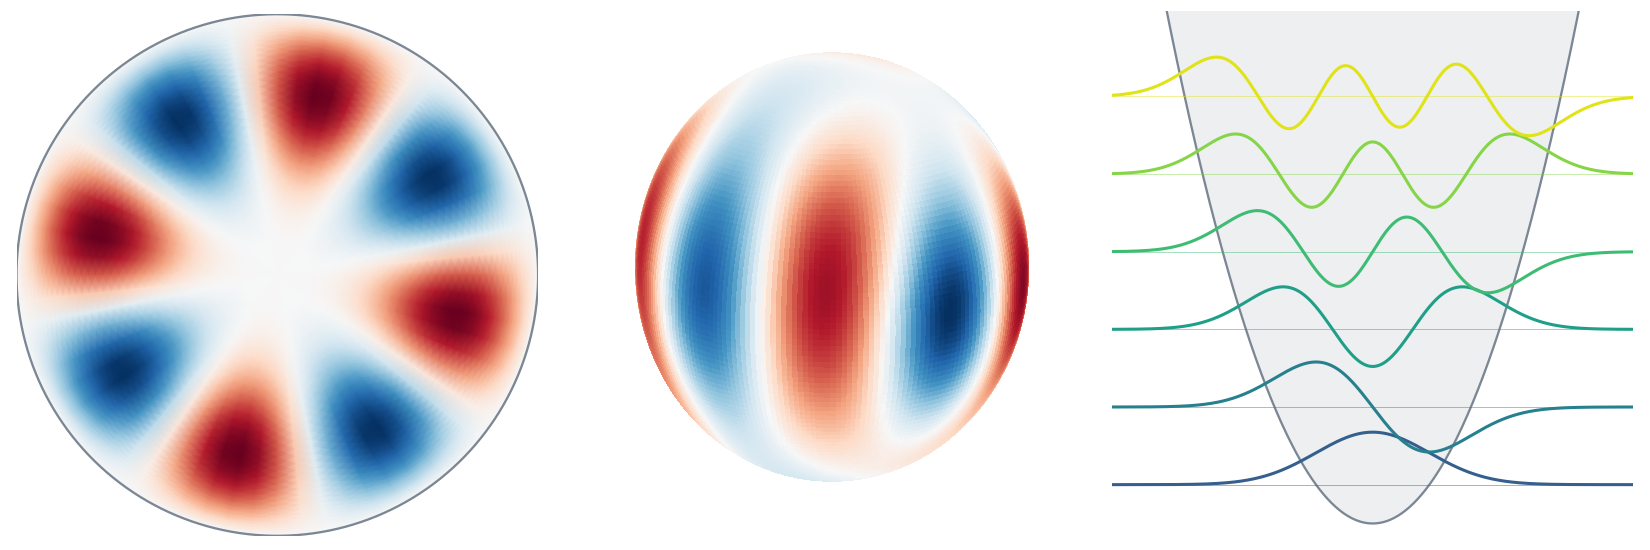
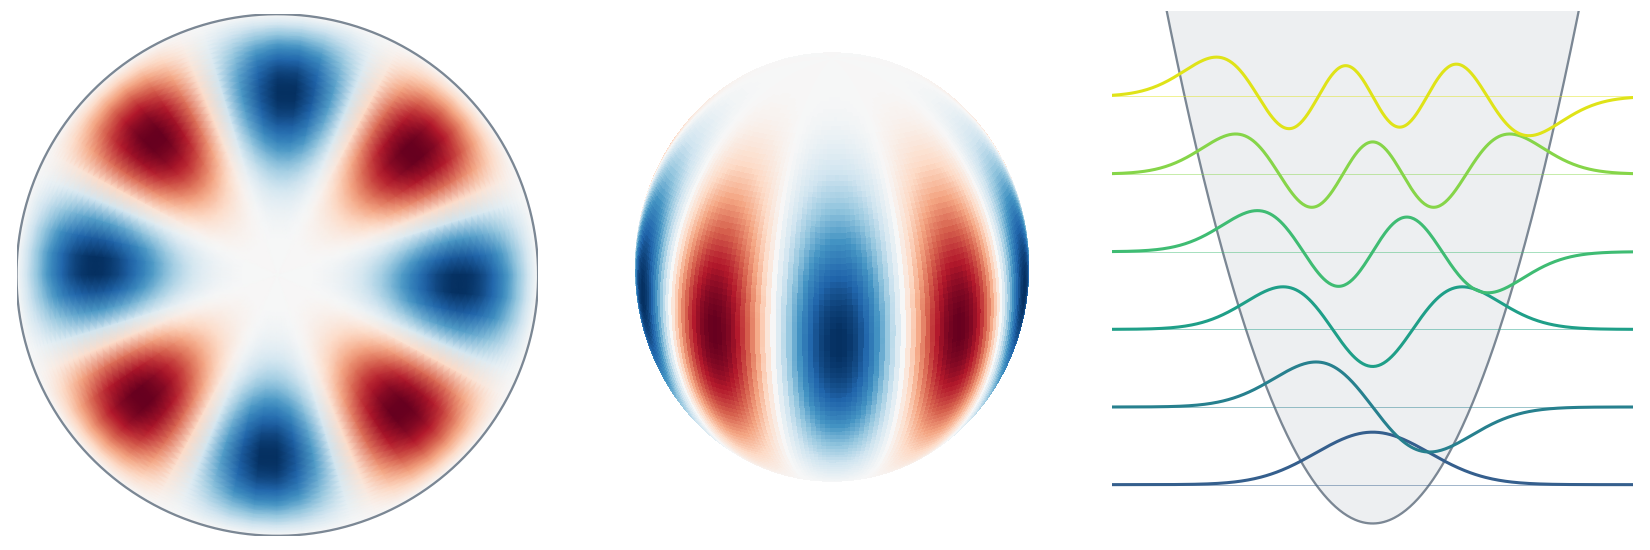
Return real eigenvectors for degenerate eigenvalues; release 0.6.1
Operator.eig now returns a real orthonormal basis for (numerically)
degenerate real eigenvalues of real operators, also on the sparse path.
Genuinely complex eigenpairs are unchanged.

The title image script picks the sectoral l = 5 mode from its
eigenspace, so the picture no longer depends on the eigensolver's choice
of basis.

diff --git a/tests/test_operators.py b/tests/test_operators.py
@@ -12,10 +12,15 @@ from numgrids import (
     PolarGrid,
     Robin,
     SphericalGrid,
+    SphericalSurfaceGrid,
     chebyshev,
+    colatitude,
     equidistant,
     periodic,
+    radial,
 )
+from numgrids.boundary import resolve_bcs
+from numgrids.operators import _real_eigenbasis
 
 
 @pytest.fixture
@@ -220,6 +225,89 @@ class TestEig:
         vals, vecs = L.eig(k=1, bcs={"r_low": 0, "r_high": 0, "theta_low": Neumann(0),
                                      "theta_high": Neumann(0)})
         assert vals[0] == pytest.approx(np.pi ** 2, rel=1e-6)
+
+
+def _assert_eigenpairs(L, vals, vecs, bcs, atol=1e-7):
+    """Check L v = lambda v away from the boundary points."""
+    interior = np.ones(L.grid.size, dtype=bool)
+    for bc in resolve_bcs(L.grid, bcs):
+        interior[bc.face.flat_indices] = False
+    for lam, v in zip(vals, vecs):
+        residual = L.matrix @ v.ravel() - lam * v.ravel()
+        assert np.max(np.abs(residual[interior])) <= atol * max(1.0, abs(lam))
+
+
+class TestRealEigenvectors:
+    """Degenerate eigenvalues of real operators come with real eigenvectors."""
+
+    @pytest.mark.parametrize("dense_threshold", [2000, 10])
+    def test_square(self, dense_threshold):
+        grid = Grid(chebyshev(20, 0, 1), chebyshev(20, 0, 1))
+        L = -grid.laplacian_operator()
+        vals, vecs = L.eig(k=4, bcs=0, dense_threshold=dense_threshold)
+        assert np.isrealobj(vals) and np.isrealobj(vecs)
+        npt.assert_allclose(vals, np.pi ** 2 * np.array([2, 5, 5, 8]), rtol=1e-6)
+        _assert_eigenpairs(L, vals, vecs, 0)
+        # The degenerate pair is an orthonormal basis of its eigenspace.
+        pair = vecs[1:3].reshape(2, -1)
+        npt.assert_allclose(pair @ pair.T, np.eye(2), atol=1e-10)
+
+    @pytest.mark.parametrize("dense_threshold", [2000, 10])
+    def test_drum(self, dense_threshold):
+        L = -PolarGrid(radial(20, 1.0), periodic(32)).laplacian_operator()
+        vals, vecs = L.eig(k=6, bcs=0, dense_threshold=dense_threshold)
+        assert np.isrealobj(vals) and np.isrealobj(vecs)
+        npt.assert_allclose(np.sqrt(vals), [2.404825557695773, 3.831705970207512, 3.831705970207512,
+                                            5.135622301840683, 5.135622301840683, 5.520078110286311],
+                            rtol=1e-8)
+        _assert_eigenpairs(L, vals, vecs, 0)
+
+    def test_sphere_surface(self):
+        L = -SphericalSurfaceGrid(colatitude(16), periodic(32)).laplacian_operator()
+        vals, vecs = L.eig(k=9, dense_threshold=10)
+        assert np.isrealobj(vals) and np.isrealobj(vecs)
+        npt.assert_allclose(vals, [0, 2, 2, 2, 6, 6, 6, 6, 6], atol=1e-8)
+        _assert_eigenpairs(L, vals, vecs, None)
+        block = vecs[4:9].reshape(5, -1)
+        npt.assert_allclose(block @ block.T, np.eye(5), atol=1e-8)
+
+    def test_neumann_generalized_problem(self):
+        grid = Grid(chebyshev(16, 0, np.pi), chebyshev(16, 0, np.pi))
+        L = -grid.laplacian_operator()
+        vals, vecs = L.eig(k=3, bcs=Neumann(0))
+        assert np.isrealobj(vals) and np.isrealobj(vecs)
+        npt.assert_allclose(vals, [0, 1, 1], atol=1e-8)
+
+    def test_complex_eigenvalues_stay_complex(self):
+        # d/dx on a periodic axis has eigenvalues i m with eigenvectors exp(i m x).
+        grid = Grid(periodic(15, 0, 2 * np.pi))     # odd: no Nyquist mode
+        D = grid.diff_operator(1)
+        vals, vecs = D.eig(k=3)
+        assert np.iscomplexobj(vals) and np.iscomplexobj(vecs)
+        npt.assert_allclose(np.sort(vals.imag), [-1, 0, 1], atol=1e-10)
+        _assert_eigenpairs(D, vals, vecs, None)
+
+    def test_conjugate_pair_is_made_real(self):
+        rng = np.random.default_rng(0)
+        a, b = rng.standard_normal((2, 10))
+        v = (a + 1j * b) / np.linalg.norm(a + 1j * b)
+        vals = np.array([3.0 + 1e-12j, 3.0 - 1e-12j, 5.0])
+        vecs = np.column_stack([v, v.conj(), rng.standard_normal(10)])
+        new_vals, new_vecs = _real_eigenbasis(vals, vecs)
+        npt.assert_array_equal(new_vals.imag, 0)
+        assert not np.any(new_vecs.imag)
+        # Same span as the real and imaginary parts of the input pair:
+        basis = new_vecs[:, :2].real
+        npt.assert_allclose(basis @ (basis.T @ np.column_stack([a, b])), np.column_stack([a, b]),
+                            atol=1e-12)
+        npt.assert_allclose(new_vecs[:, 2], vecs[:, 2])
+
+    def test_genuinely_complex_pair_is_unchanged(self):
+        vals = np.array([1 + 2j, 1 - 2j])
+        vecs = np.array([[1, 1], [1j, -1j]]) / np.sqrt(2)
+        new_vals, new_vecs = _real_eigenbasis(vals, vecs)
+        npt.assert_array_equal(new_vals, vals)
+        npt.assert_array_equal(new_vecs, vecs)
 
 
 def test_remaining_operator_dunders():

diff --git a/numgrids/operators.py b/numgrids/operators.py
@@ -319,7 +319,11 @@ class Operator:
         eigenvectors : NDArray
             Shape ``(k, *grid.shape)``; ``eigenvectors[i]`` belongs to
             ``eigenvalues[i]``.  Each eigenvector has unit Euclidean norm
-            (as a flat vector) and its largest component is positive.
+            (as a flat vector) and its largest component is positive.  For a
+            real operator, eigenvectors of real eigenvalues are real, also
+            for degenerate eigenvalues (e.g. symmetry-related modes on a
+            disk or sphere): a degenerate eigenspace is returned as a real
+            orthonormal basis.
         """
         from numgrids.boundary import DirichletBC, resolve_bcs
 
@@ -401,6 +405,8 @@ class Operator:
 
         order = self._sort_eigenvalues(vals, which, sigma)[:k]
         vals, vecs = vals[order], vecs[:, order]
+        if not np.iscomplexobj(A):
+            vals, vecs = _real_eigenbasis(vals, vecs)
 
         full = np.zeros((size, len(vals)), dtype=vecs.dtype)
         full[keep, :] = vecs
@@ -427,6 +433,43 @@ class Operator:
         if which == "SR":
             return np.argsort(vals.real)
         return np.argsort(-vals.real)
+
+
+def _real_eigenbasis(vals: NDArray, vecs: NDArray, rtol: float = 1e-8) -> tuple[NDArray, NDArray]:
+    r"""Replace complex eigenvectors of a real problem by real ones.
+
+    For a real matrix, the eigenspace of a real eigenvalue has a real basis,
+    but eigensolvers may return complex vectors for it.  This happens when
+    the eigenvalue is degenerate: any complex combination of the basis is an
+    eigenvector, and a nonsymmetric discretization may even split the
+    eigenvalue into a pair :math:`\lambda \pm i\epsilon` with complex
+    conjugate eigenvectors.  For each cluster of (numerically) equal, real
+    eigenvalues, the real and imaginary parts of its eigenvectors span the
+    real eigenspace; an orthonormal basis of that span replaces the cluster's
+    eigenvectors (also if they were real but not orthogonal).  Genuinely
+    complex eigenvalues are left unchanged.
+    """
+    vals = np.array(vals, dtype=complex)
+    vecs = np.array(vecs, dtype=complex)
+    scale = rtol * np.maximum(1.0, np.abs(vals))
+    real_valued = np.abs(vals.imag) <= scale
+    unassigned = set(np.flatnonzero(real_valued))
+    while unassigned:
+        i = min(unassigned)
+        cluster = [j for j in sorted(unassigned)
+                   if abs(vals[j].real - vals[i].real) <= max(scale[i], scale[j])]
+        unassigned.difference_update(cluster)
+        V = vecs[:, cluster]
+        m = len(cluster)
+        vals[cluster] = vals[cluster].real
+        if m == 1 and not np.any(V.imag):
+            continue
+        U, s, _ = np.linalg.svd(np.hstack([V.real, V.imag]), full_matrices=False)
+        if s[m - 1] <= 1e-6 * s[0]:
+            # The vectors do not span an m-dimensional space; leave them alone.
+            continue
+        vecs[:, cluster] = U[:, :m]
+    return vals, vecs
 
 
 def _count_zero_rows(M) -> int:

diff --git a/docs/assets/scripts/make_hero.py b/docs/assets/scripts/make_hero.py
@@ -22,7 +22,7 @@ disk = PolarGrid(radial(40, 1.0), periodic(64))
 vals, modes = (-disk.laplacian_operator()).eig(k=12, bcs=0)
 ax = fig.add_subplot(1, 3, 1)
 mode = modes[10] / np.abs(modes[10]).max()
-disk.plot(np.real(mode), ax=ax, cmap="RdBu_r", colorbar=False, vmin=-1, vmax=1)
+disk.plot(mode, ax=ax, cmap="RdBu_r", colorbar=False, vmin=-1, vmax=1)
 rim = np.linspace(0, 2 * np.pi, 400)
 ax.plot(np.cos(rim), np.sin(rim), color="#7b8794", lw=1.5)
 ax.set_axis_off()
@@ -30,15 +30,17 @@ ax.set_axis_off()
 # 2) An eigenfunction of the Laplacian on the full sphere (through the poles)
 sphere = SphericalSurfaceGrid(colatitude(40), periodic(80))
 svals, smodes = (-sphere.laplacian_operator()).eig(k=36)
-f = smodes[30]                                  # an l = 5 eigenfunction
-# The operator is real, so the real (or imaginary) part is an eigenfunction, too.
-f = np.real(f) if np.linalg.norm(np.real(f)) >= np.linalg.norm(np.imag(f)) else np.imag(f)
+# The l = 5 eigenvalue is 11-fold degenerate; pick the sectoral mode Y_5^5 from its eigenspace.
+space = smodes[np.isclose(svals, 30.0)].reshape(-1, sphere.size)
+TH, PH = sphere.meshed_coords
+target = (np.sin(TH) ** 5 * np.cos(5 * PH)).ravel()
+f = (np.linalg.lstsq(space.T, target, rcond=None)[0] @ space).reshape(sphere.shape)
 # Spectral interpolation onto a fine mesh (including the poles) for a smooth picture
 theta = np.linspace(0, np.pi, 121)
 phi = np.linspace(0, 2 * np.pi, 241)
 T, P = np.meshgrid(theta, phi, indexing="ij")
 pts = np.column_stack([T.ravel(), np.mod(P.ravel(), 2 * np.pi)])
-vals_s = np.real(sphere.interpolate(f, pts, method="spectral")).reshape(T.shape)
+vals_s = sphere.interpolate(f, pts, method="spectral").reshape(T.shape)
 vals_s /= np.abs(vals_s).max()
 ax = fig.add_subplot(1, 3, 2, projection="3d")
 ax.plot_surface(np.sin(T) * np.cos(P), np.sin(T) * np.sin(P), np.cos(T),

diff --git a/docs/dev/changelog.md b/docs/dev/changelog.md
@@ -2,6 +2,23 @@
 
 All notable changes to **numgrids** are documented on this page.
 
+## 0.6.1
+
+### Bug fixes
+
+- `Operator.eig` returns real eigenvectors for real operators, also for
+  degenerate eigenvalues (e.g. symmetry-related modes on a disk, square or
+  sphere). Previously, the eigenvectors of such modes could be complex
+  combinations, and the sparse path never returned real arrays. A degenerate
+  eigenspace is now returned as a real orthonormal basis. Genuinely complex
+  eigenvalues and their eigenvectors are unchanged.
+
+### Documentation
+
+- New README and PyPI project description with a title image, a short
+  introductory example and a gallery of the example notebooks.
+- `CITATION.cff` for citing numgrids ("Cite this repository" on GitHub).
+
 ## 0.6.0
 
 ### Breaking changes
